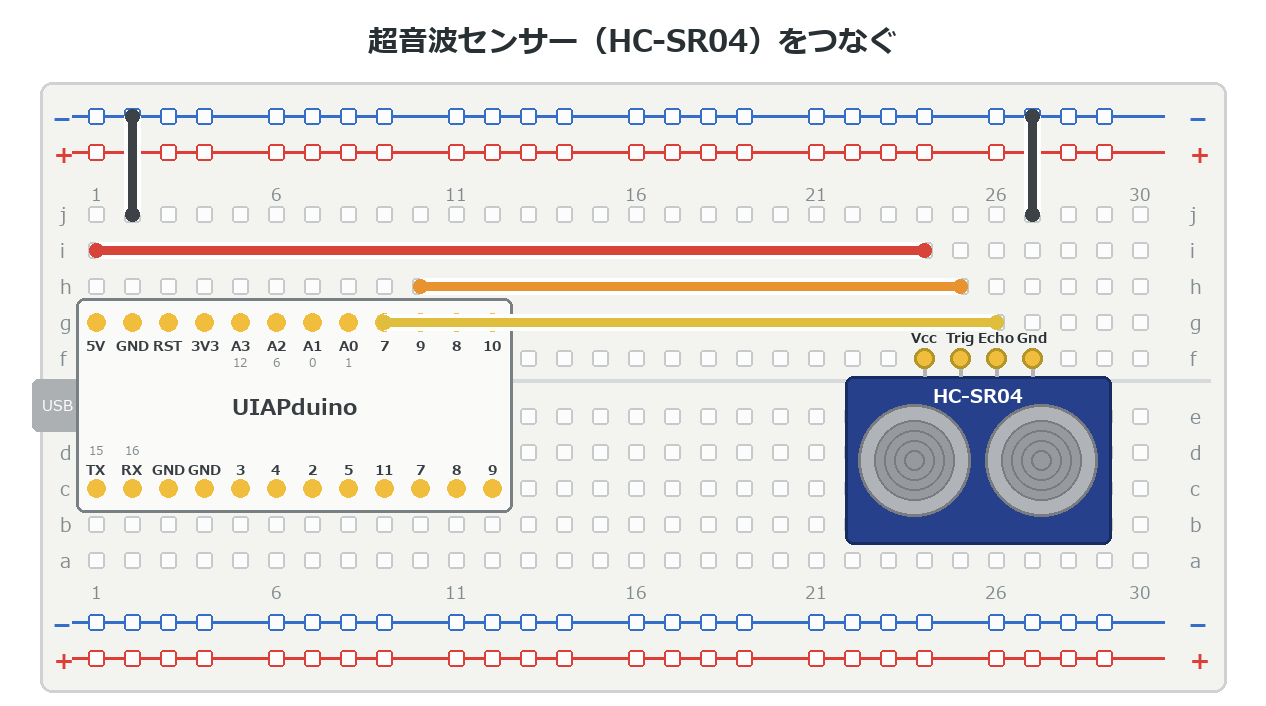
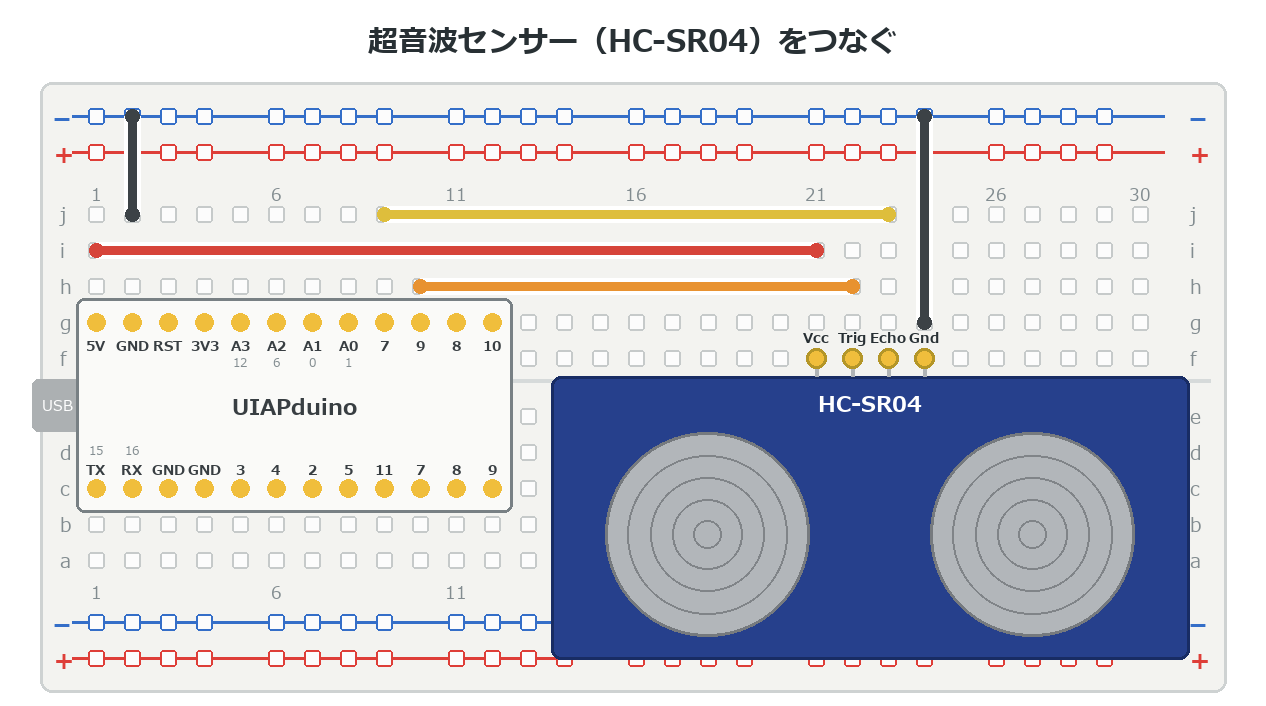
e3 の HC-SR04 を実物の幅にし、挿せない穴への配線を修正
1) 本体の大きさ
   実物は 45×20mm＝約17列ぶんの幅があり、21〜24列にさすと
   14列目からブレッドボードの右端まで張り出す。
   以前は7列ぶんしか描いておらず、実物とかけ離れていた。
   端子を 24〜27列 → 21〜24列 に移し、本体を実寸にした。

2) 挿せない穴への配線（重要）
   Echo を (9,"g") につないでいたが、**列1〜12 の c〜g 行は
   マイコンが占有している**ので、実際には挿せなかった。
   図のとおりに配線できない状態だった。
   j行 に移して、あいている穴につなぐようにした。

   規約として明記しておく:
   列1〜12 で使えるのは **a・b・h・i・j 行のみ**。
   他の図も確認したが、違反はこの1件だけだった。

配線（すべて上がわ・交差なし）:
- Vcc  … i行 → 5V
- Trig … h行 → 9番
- Echo … j行 → 7番
- Gnd  … 24列の g行 から 上の −レールへ

Changed region(s): [[0.2773, 0.1558, 0.955, 0.9348], [0.8009, 0.1558, 0.8318, 0.3116]]

diff --git a/docs/e3_distance/index.html b/docs/e3_distance/index.html
@@ -85,7 +85,7 @@
 
 :::
 
-![4本とも上がわのピンにつなぐので、線がまっすぐ引ける](image/index/bb_sr04.png)
+![本体が大きいので、21〜24列にさすと右半分がかくれる](image/index/bb_sr04.png)
 
 ---
 

diff --git a/tools/bb.py b/tools/bb.py
@@ -263,22 +263,24 @@ def cds(d, col, row):
     center(d, mx, my + 34, "CdS", bold(15), (120, 100, 40))
 
 def sr04(d, col, row, pins=("Vcc", "Trig", "Echo", "Gnd")):
-    """HC-SR04。端子4本を1行にさす。本体は端子の行から 溝がわへ のびる。"""
+    """HC-SR04（45×20mm）。端子4本を1行にさす。本体は端子の行から 溝がわへ のびる。
+    実物は幅 17列ぶんもあるので、さした位置より ずっと左右に張り出す。"""
     y = cy(row)
-    x1, x2 = cx(col) - 2.2 * PITCH, cx(col + 3) + 2.2 * PITCH
-    top = y + 18
-    d.rounded_rectangle([x1, top, x2, top + 168], radius=8,
+    mx = (cx(col) + cx(col + 3)) / 2
+    hw = 8.85 * PITCH                      # 45mm ＝ 約17.7列
+    x1, x2, top = mx - hw, mx + hw, y + 18
+    h = hw * 2 / 2.25                      # 20mm ぶんの高さ
+    d.rounded_rectangle([x1, top, x2, top + h], radius=10,
                         fill=(38, 64, 140), outline=(24, 44, 100), width=3)
-    for k in (0.26, 0.74):
-        mx = x1 + (x2 - x1) * k
-        my = top + 84
-        d.ellipse([mx - 56, my - 56, mx + 56, my + 56], fill=(176, 180, 184),
-                  outline=(120, 124, 128), width=3)
-        d.ellipse([mx - 40, my - 40, mx + 40, my + 40], fill=(150, 154, 158),
-                  outline=(120, 124, 128), width=2)
-        for r in (30, 20, 10):
-            d.ellipse([mx - r, my - r, mx + r, my + r], outline=(120, 124, 128), width=2)
-    center(d, (x1 + x2) / 2, top + 6, "HC-SR04", bold(19), WHITE)
+    for k in (0.245, 0.755):
+        cxx, cyy, r = x1 + (x2 - x1) * k, top + h * 0.56, h * 0.36
+        d.ellipse([cxx - r, cyy - r, cxx + r, cyy + r], fill=(178, 182, 186),
+                  outline=(118, 122, 126), width=3)
+        for q in (0.78, 0.56, 0.34, 0.14):
+            rr = r * q
+            d.ellipse([cxx - rr, cyy - rr, cxx + rr, cyy + rr],
+                      outline=(128, 132, 136), width=2)
+    center(d, mx, top + 12, "HC-SR04", bold(22), WHITE)
     for i, lab in enumerate(pins):
         x = cx(col + i)
         d.line([x, y, x, top], fill=(176, 180, 182), width=4)

diff --git a/content/e3_distance/index.md b/content/e3_distance/index.md
@@ -72,7 +72,7 @@ wip: 写真まち
 
 :::
 
-![4本とも上がわのピンにつなぐので、線がまっすぐ引ける](image/index/bb_sr04.png)
+![本体が大きいので、21〜24列にさすと右半分がかくれる](image/index/bb_sr04.png)
 
 ---
 
